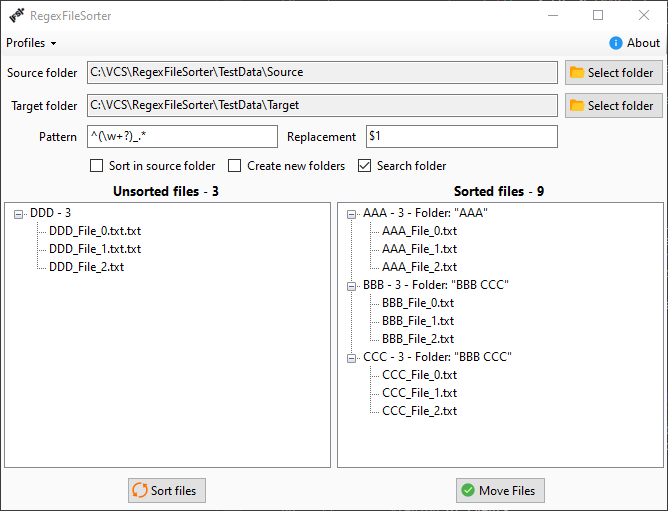
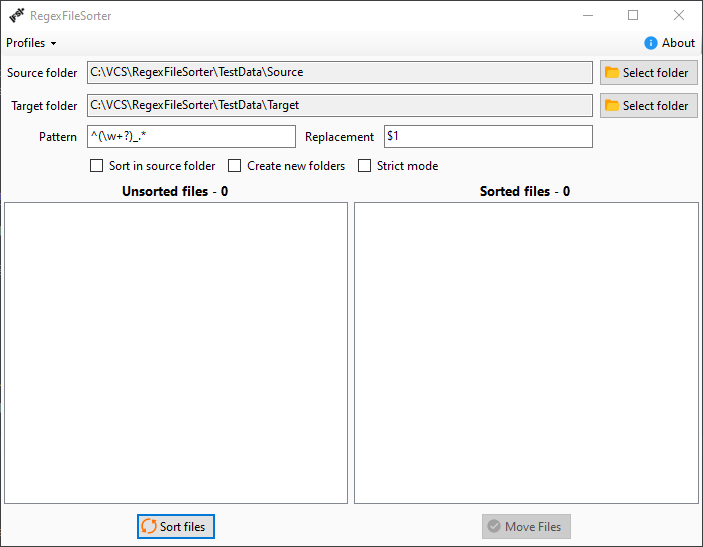
Update README

diff --git a/README.md b/README.md
@@ -1,8 +1,35 @@
 # RegexFileSorter [![Build artifact][build-src]][build-href] [![Codacy Badge][codacy-src]][codacy-href]
 
-Small application for sorting files by filename using regex
+Application for sorting files by filename using regex pattern
 
 ![Form Main](./assets/FormMain.png)
+
+## Options
+
+* Sort in source folder - Use Source folder for instead of Target folder
+* Create new folders - Create new folders with the group name
+* Strict mode - The name of the folder must exactly match the name of the group
+
+## How to use
+
+1. Open [regex101](https://regex101.com/), select C# flavor and substitution function
+2. Create pattern and replacement what works for you
+3. Select **Source** and **Target** folder
+4. Click **Sort** to see preview
+5. Click **Move** to move files to target folders
+
+### Example
+
+![Example](./assets/ExampleRegex.png)
+
+This pattern matches first word before `_` and `$1` gets replaced with it.  
+Then all matched files grouped by result and sorted to folders in **Target** folder.
+
+![Example](./assets/ExampleForm.png)
+
+## Notes
+
+* You can drag&drop folders to **Source/Target** text box
 
 <!-- Badges -->
 [build-src]: https://img.shields.io/github/actions/workflow/status/Virenbar/RegexFileSorter/build-artifact.yml?label=Build&logo=github
